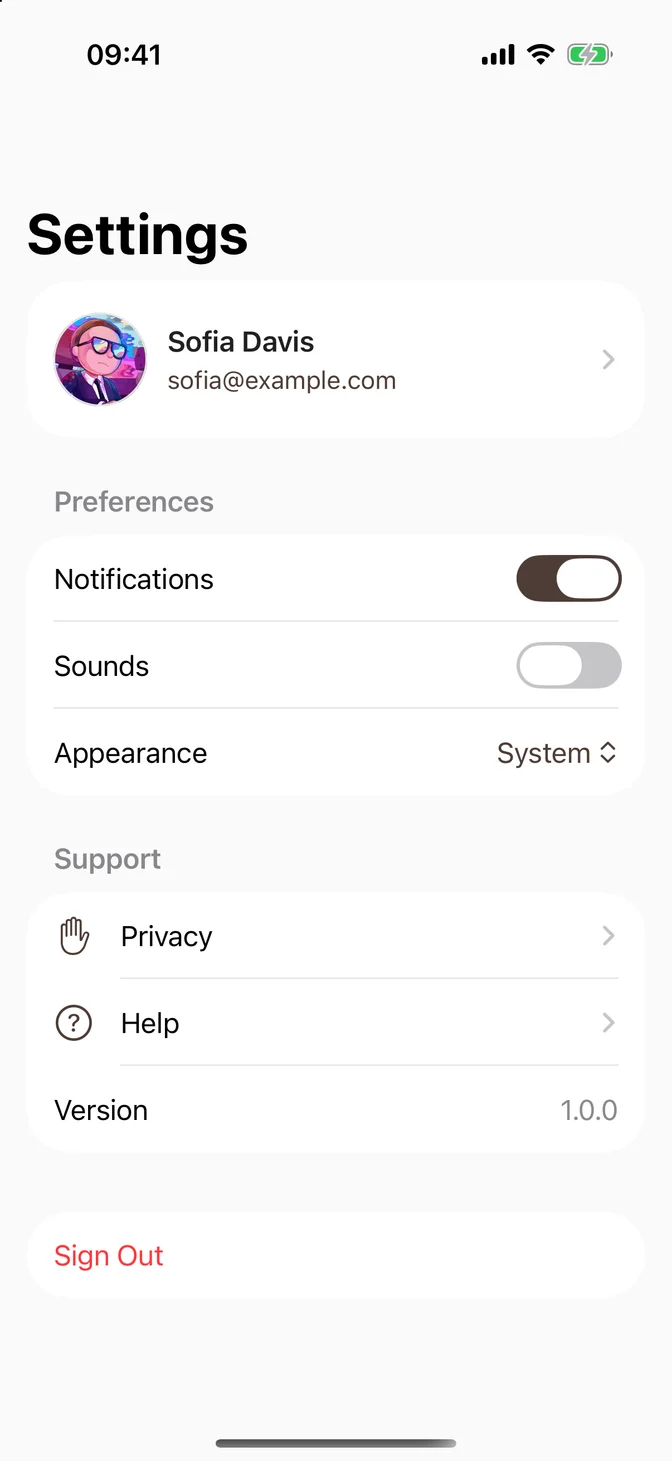
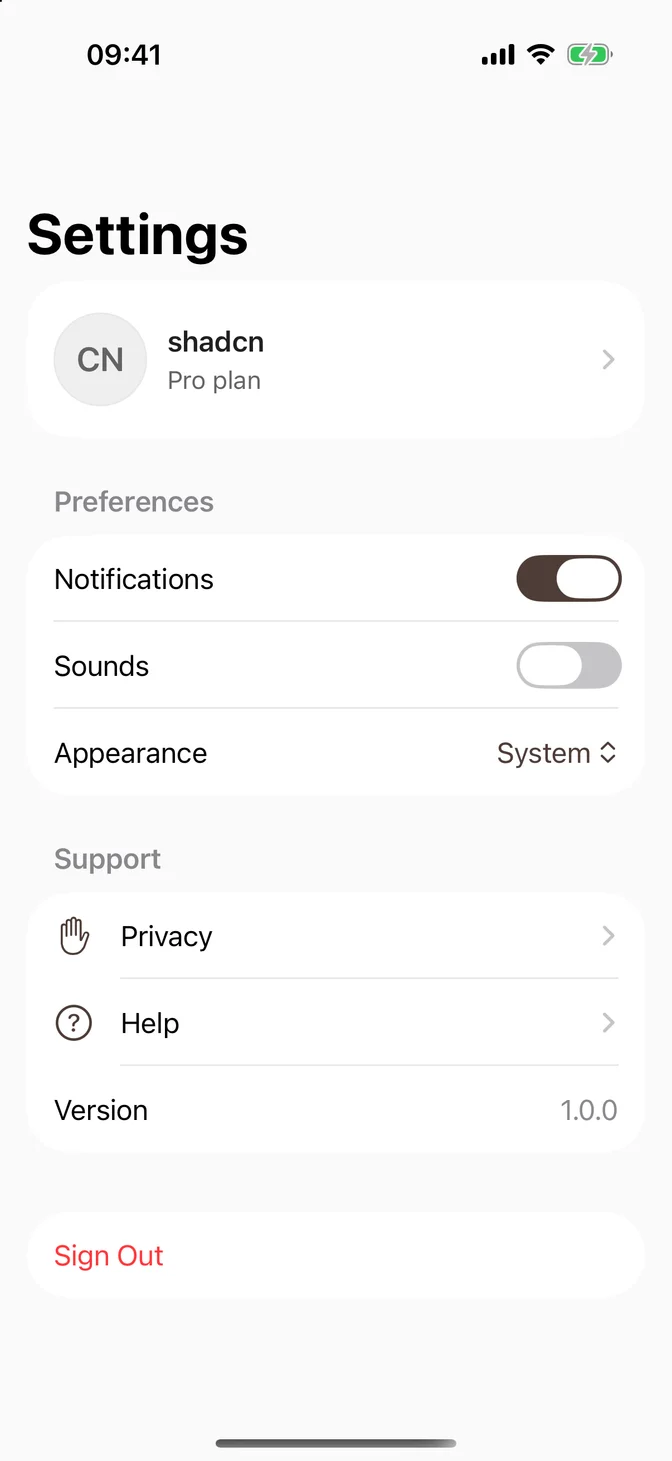
fix(blocks): show shadcn and plan in the Settings profile

Changed region(s): [[0.25, 0.2156, 0.5938, 0.2772], [0.0625, 0.2156, 0.2188, 0.2772]]

diff --git a/blocks/settings/SettingsView+macOS.swift b/blocks/settings/SettingsView+macOS.swift
@@ -41,14 +41,14 @@ struct SettingsView: View {
             Section {
                 HStack(spacing: FLXSpacing.md) {
                     FLXAvatar(size: .medium) {
-                        FLXAvatarFallback("SD")
+                        FLXAvatarFallback("CN")
                         FLXAvatarImage(url: URL(string: "https://github.com/shadcn.png"))
                     }
                     VStack(alignment: .leading, spacing: FLXSpacing.xs) {
-                        Text("Sofia Davis")
+                        Text("shadcn")
                             .flxFont(.headline)
                             .foregroundStyle(theme.colors.foreground)
-                        Text("sofia@example.com")
+                        Text("Pro plan")
                             .flxFont(.subheadline)
                             .foregroundStyle(theme.colors.mutedForeground)
                     }

diff --git a/blocks/settings/SettingsView.swift b/blocks/settings/SettingsView.swift
@@ -65,14 +65,14 @@ struct SettingsView: View {
     private var profile: some View {
         HStack(spacing: FLXSpacing.md) {
             FLXAvatar(size: .large) {
-                FLXAvatarFallback("SD")
+                FLXAvatarFallback("CN")
                 FLXAvatarImage(url: URL(string: "https://github.com/shadcn.png"))
             }
             VStack(alignment: .leading, spacing: FLXSpacing.xs) {
-                Text("Sofia Davis")
+                Text("shadcn")
                     .flxFont(.headline)
                     .foregroundStyle(theme.colors.foreground)
-                Text("sofia@example.com")
+                Text("Pro plan")
                     .flxFont(.subheadline)
                     .foregroundStyle(theme.colors.mutedForeground)
             }
